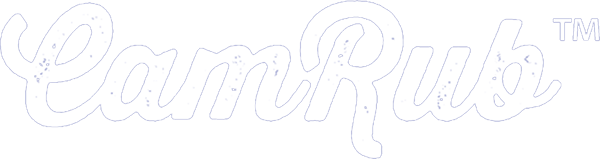
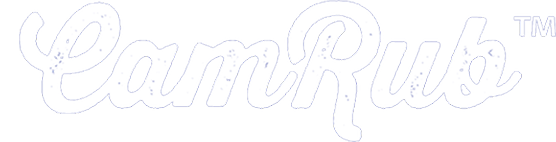
Changed tagline and tweaked layout.

diff --git a/index.html b/index.html
@@ -9,8 +9,8 @@
         <link href="css/idangerous.swiper.css" rel="stylesheet">
         <style>
         .device {
-            width: 300px;
-            height: 544px;
+            width: 288px;
+            height: 522px;
             padding: 10px;
             background: #7b82bf url(img/iphone.png) no-repeat center center;
             margin: 20px auto 0px auto;
@@ -35,8 +35,8 @@
             height: 30px;
         }
         .swiper-container {
-            height: 355px;
-            width: 200px;
+            height: 341px;
+            width: 192px;
             top: 12.3%;
         }
         .content-slide {
@@ -51,7 +51,7 @@
             position: absolute;
             left: 0;
             text-align: center;
-            bottom:15px;
+            bottom:12px;
             width: 100%;
         }
         .swiper-pagination-switch {
@@ -96,10 +96,10 @@
 				
 				<div class="content">
                     <p class="h1">
-                        Camera, meet paintbrush.
+                        We sent the camera back to the drawing boards...
                     </p>
                     <p class="image">
-                        <img src="img/CamRub.png" width="300px" height="80px">
+                        <img src="img/CamRub.png" width="278px" height="71px">
                     </p>
                 </div>
                 
@@ -108,13 +108,13 @@
                     <a class="arrow-right" href="#"></a>
                     <div class="swiper-container">
                         <div class="swiper-wrapper">
-                            <div class="swiper-slide"> <img src="img/Screenshot1.png" width="200px" height="355px"> </div>
-                            <div class="swiper-slide"> <img src="img/Screenshot2.png" width="200px" height="355px"> </div>
-                            <div class="swiper-slide"> <img src="img/Screenshot3.png" width="200px" height="355px"> </div>
-                            <div class="swiper-slide"> <img src="img/Screenshot4.png" width="200px" height="355px"> </div>
-                            <div class="swiper-slide"> <img src="img/Screenshot5.png" width="200px" height="355px"> </div>
-                            <div class="swiper-slide"> <img src="img/Screenshot6.png" width="200px" height="355px"> </div>
-                            <div class="swiper-slide"> <img src="img/Screenshot7.png" width="200px" height="355px"> </div>
+                            <div class="swiper-slide"> <img src="img/Screenshot1.png" width="192px" height="341px"> </div>
+                            <div class="swiper-slide"> <img src="img/Screenshot2.png" width="192px" height="341px"> </div>
+                            <div class="swiper-slide"> <img src="img/Screenshot3.png" width="192px" height="341px"> </div>
+                            <div class="swiper-slide"> <img src="img/Screenshot4.png" width="192px" height="341px"> </div>
+                            <div class="swiper-slide"> <img src="img/Screenshot5.png" width="192px" height="341px"> </div>
+                            <div class="swiper-slide"> <img src="img/Screenshot6.png" width="192px" height="341px"> </div>
+                            <div class="swiper-slide"> <img src="img/Screenshot7.png" width="192px" height="341px"> </div>
                         </div>
                     </div>
                     <div class="pagination"></div>

diff --git a/about.html b/about.html
@@ -37,13 +37,13 @@
                         About NDH Apps
                     </p>
                     <p class="content">
-                        NDH Apps was founded by <a href="https://www.linkedin.com/profile/view?id=317621319">Nicholas Daniel Hall</a> in 2013 and released its first app, <a href="GetCamRub.html">CamRub</a>, in 2014. Nick is currently pursuing a Bachelor of Science in Computer Science at Northwestern University in Evanston, IL and hopes to pursue a career in mobile development.
+                        NDH Apps was founded by <a href="https://www.linkedin.com/profile/view?id=317621319">Nick Hall</a> in 2013 and is planning to release its first app, <a href="GetCamRub.html">CamRub</a>, in 2014. Nick is currently pursuing a Bachelor of Science in Computer Science at Northwestern University in Evanston, IL and hopes to pursue a career in mobile development.
 					</p>
                     <p class="h1">
                         CamRub
                     </p>
                     <p class="content">
-                        CamRub is a new photography app which allows you to "rub," or draw on a camera view to capture portions of the image. Make unique drawings, create collages, or just play around to see what else you can come up with– your imagination is the only limit! When you're done, save your creations to your camera roll or share them on Facebook, Twitter, Instagram, and Messages.
+                        CamRub is a new photography app which allows you to "rub," or draw on a camera view to capture portions of the image. Make unique drawings, create collages, or just play around to see what else you can come up with– your imagination is the only limit! When you're done, save your creations to your camera roll or share them on Facebook, Twitter, Instagram, and Messages. Look for CamRub to hit the App Store in the near future once it is approved by Apple.
 					</p>
 
 				</div>

diff --git a/css/main.css b/css/main.css
@@ -26,7 +26,7 @@ body {
 }
 
 .h1 {
-    font:400 26px 'Helvetica Neue', Helvetica, Arial, sans-serif;
+    font:400 28px 'Helvetica Neue', Helvetica, Arial, sans-serif;
     color: #fff;
     text-align:center;
     margin:20px 0 15px 0;
